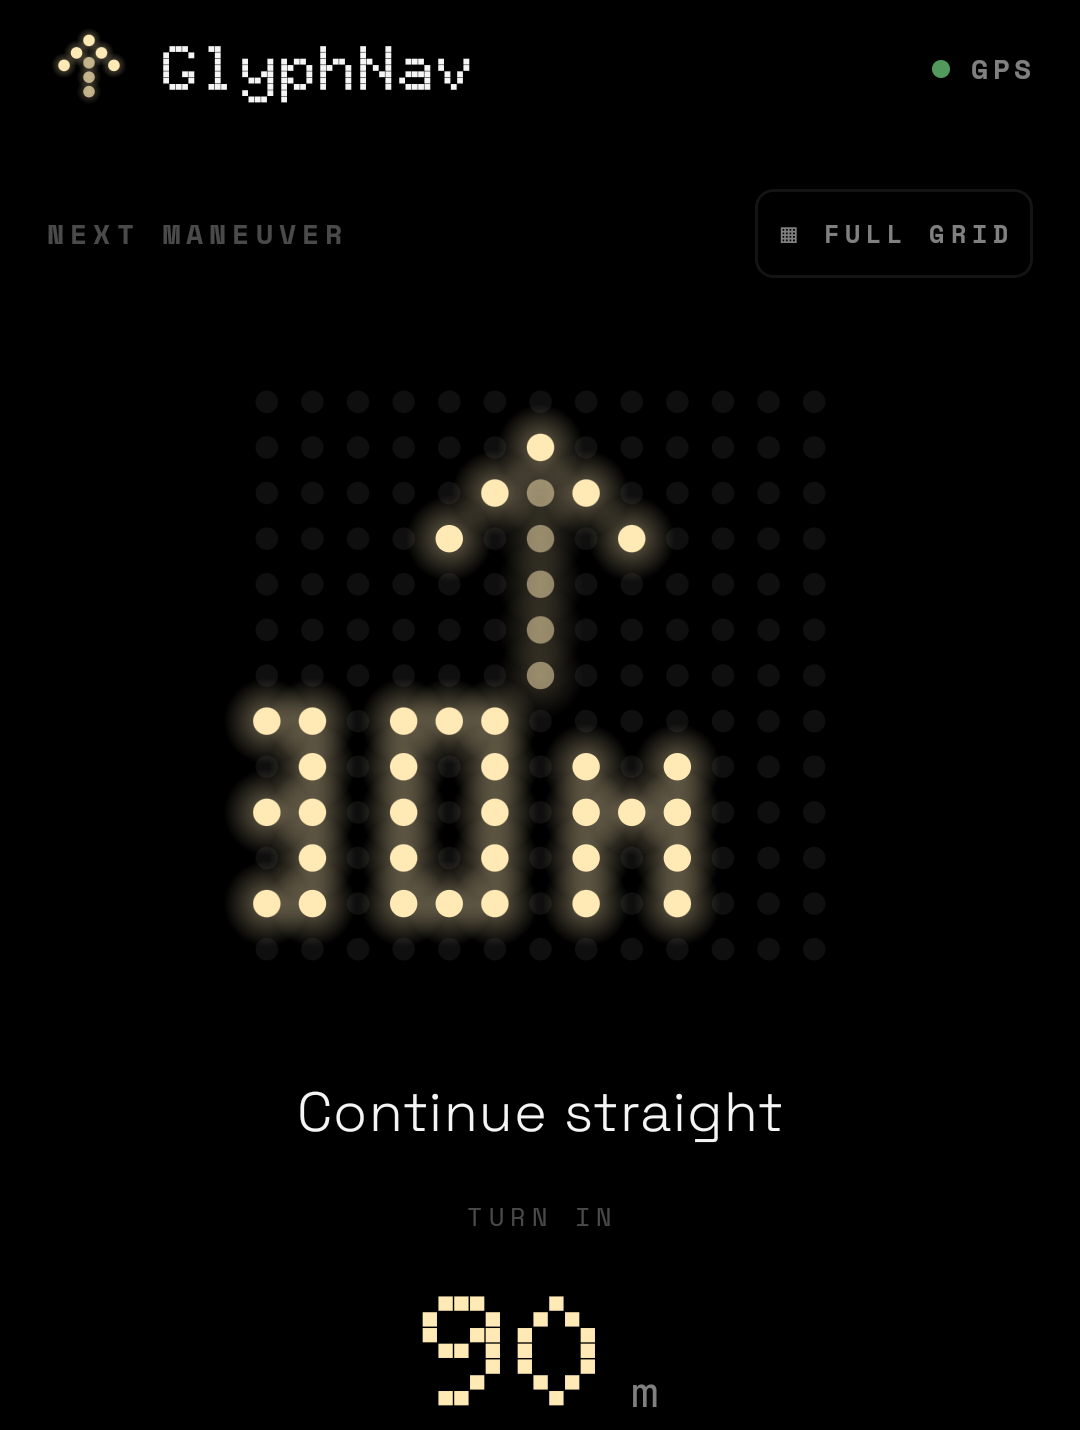
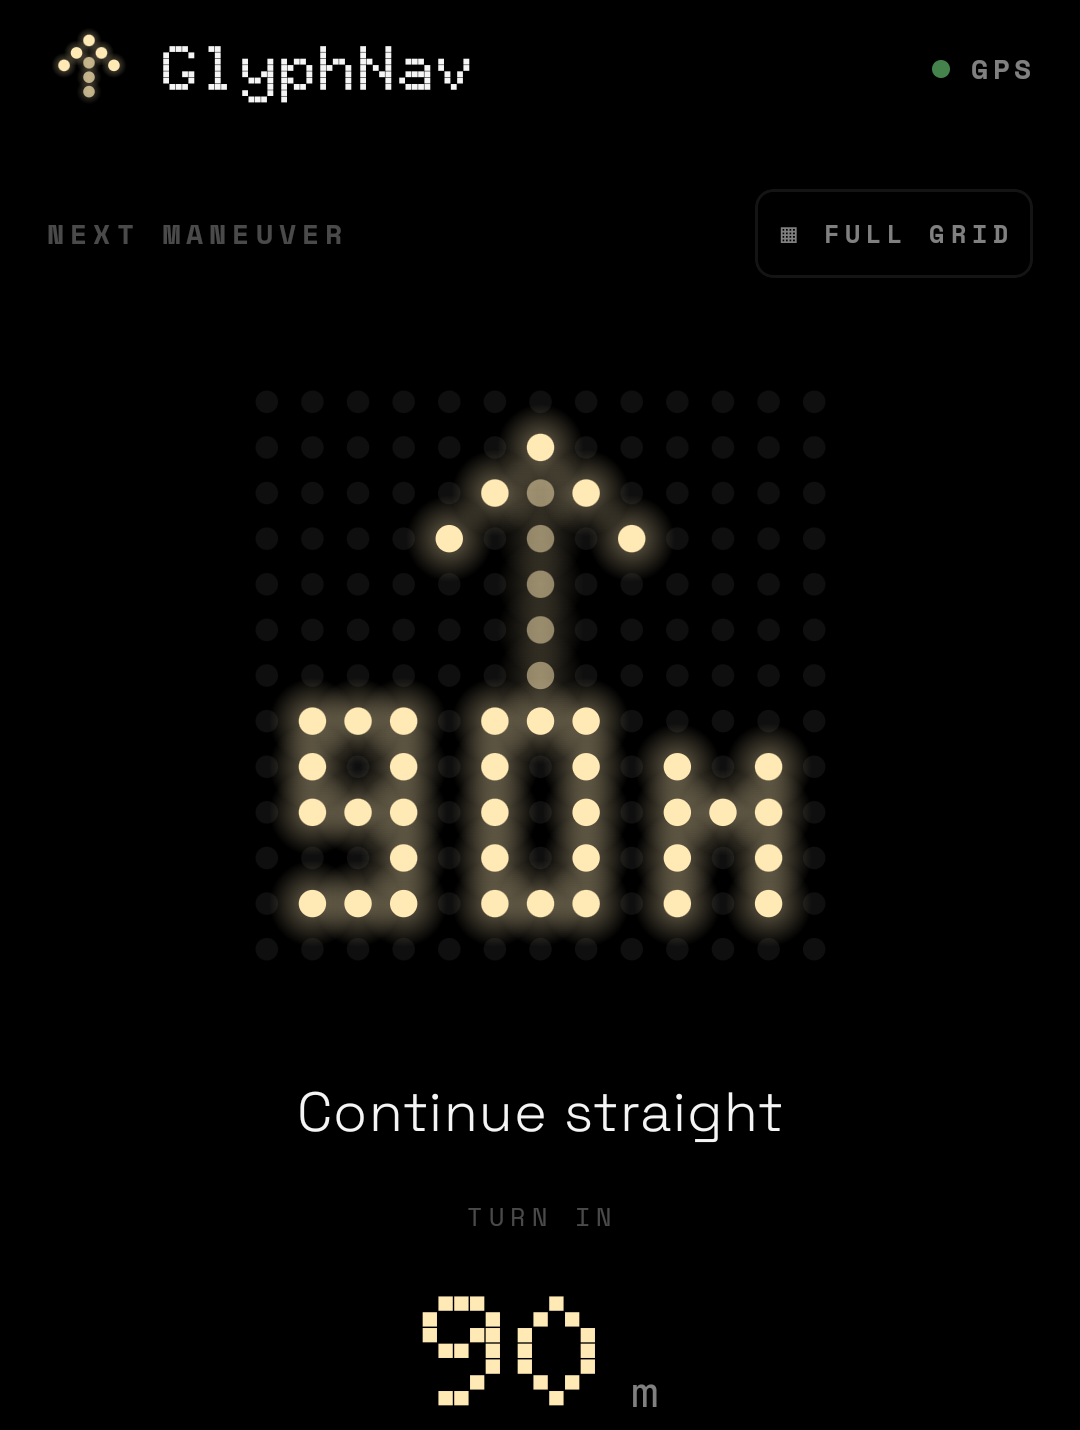
docs: downloadable release + centered "90m" hero
- Link the v1.0.0 APK release prominently (download badge + button + install
  step) so users can grab it without building.
- Re-center the hero's distance in the grid so "90m" isn't clipped at the edges.

Changed region(s): [[0.2139, 0.4615, 0.6111, 0.6769], [0.6417, 0.4923, 0.7639, 0.6769]]

diff --git a/README.md b/README.md
@@ -8,7 +8,7 @@ Glyph Maps mirrors Google Maps' next turn — the maneuver arrow and the distanc
 to it — onto the rear Glyph Matrix while you navigate. Glance at the back of
 your phone instead of the screen.
 
-![Platform](https://img.shields.io/badge/platform-Android-3DDC84?logo=android&logoColor=white)
+[![Download APK](https://img.shields.io/github/v/release/capad-xyz/GlyphMaps?label=Download%20APK&logo=android&color=3DDC84)](https://github.com/capad-xyz/GlyphMaps/releases/latest)
 ![Min SDK](https://img.shields.io/badge/minSdk-34_(Android_14)-blue)
 ![Kotlin](https://img.shields.io/badge/Kotlin-2.0-7F52FF?logo=kotlin&logoColor=white)
 ![Jetpack Compose](https://img.shields.io/badge/UI-Jetpack_Compose-4285F4?logo=jetpackcompose&logoColor=white)
@@ -16,6 +16,8 @@ your phone instead of the screen.
 ![License](https://img.shields.io/github/license/capad-xyz/GlyphMaps?color=lightgrey)
 
 <img src="docs/screenshots/hero.png" width="300" alt="Glyph Maps showing the next maneuver on the Glyph Matrix" />
+
+### [⬇️ Download the latest APK](https://github.com/capad-xyz/GlyphMaps/releases/latest)
 
 </div>
 
@@ -54,8 +56,10 @@ your phone instead of the screen.
 
 ## Getting started
 
-1. **Install** — build from source (below), or grab a build from
-   [Releases](../../releases) when available.
+1. **Install** — download **[GlyphMaps&#8209;1.0.0.apk](https://github.com/capad-xyz/GlyphMaps/releases/latest)**
+   onto your phone and tap to install (allow *Install from unknown sources* if
+   prompted), or `adb install GlyphMaps-1.0.0.apk`. You can also build from
+   source (below).
 2. **Grant Notification Access** — on first launch the app links you to the
    system setting. This is *required*: it's how Glyph Maps reads Maps' live
    directions. (It's filtered to the Google Maps package + the `navigation`